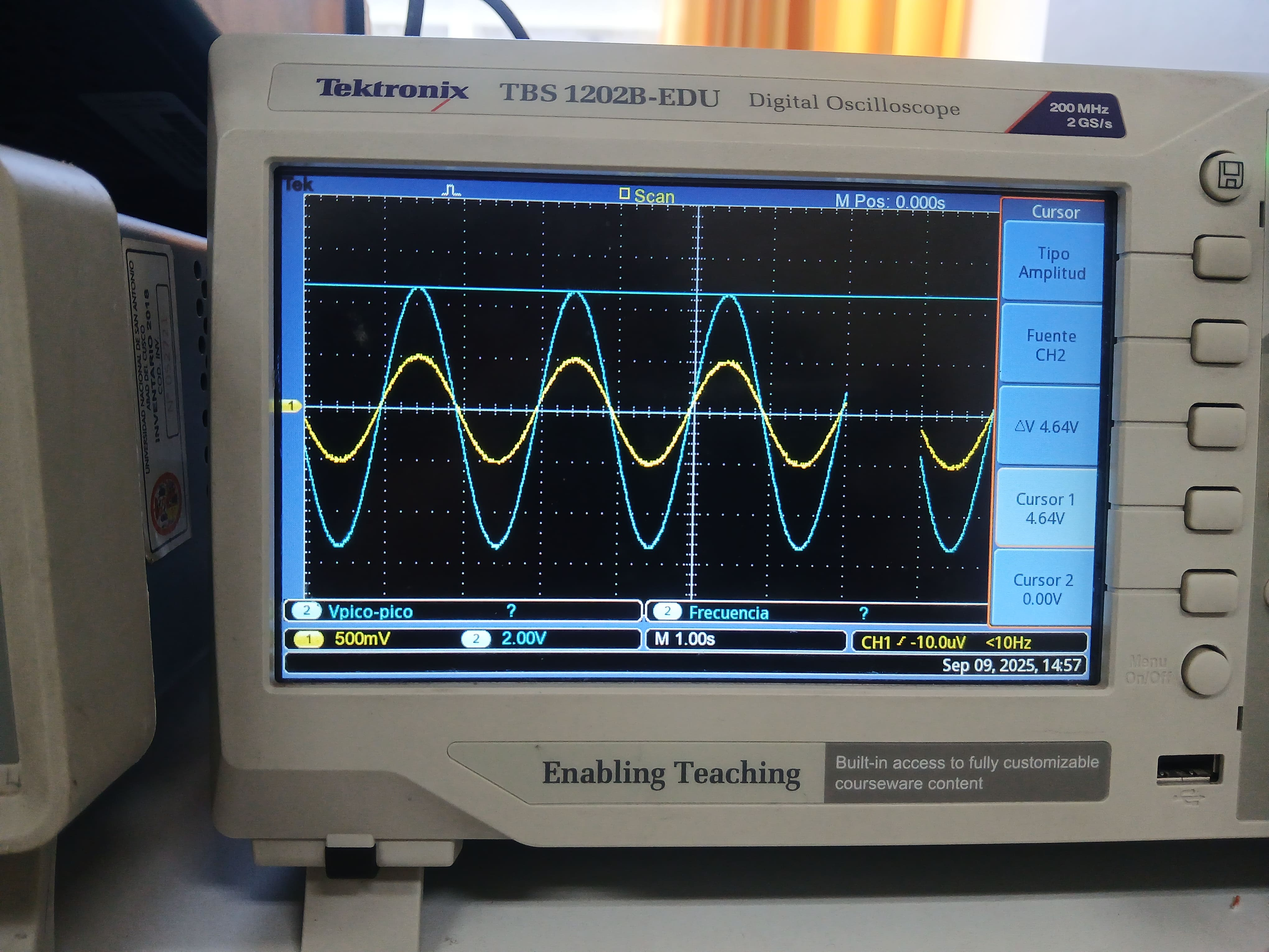
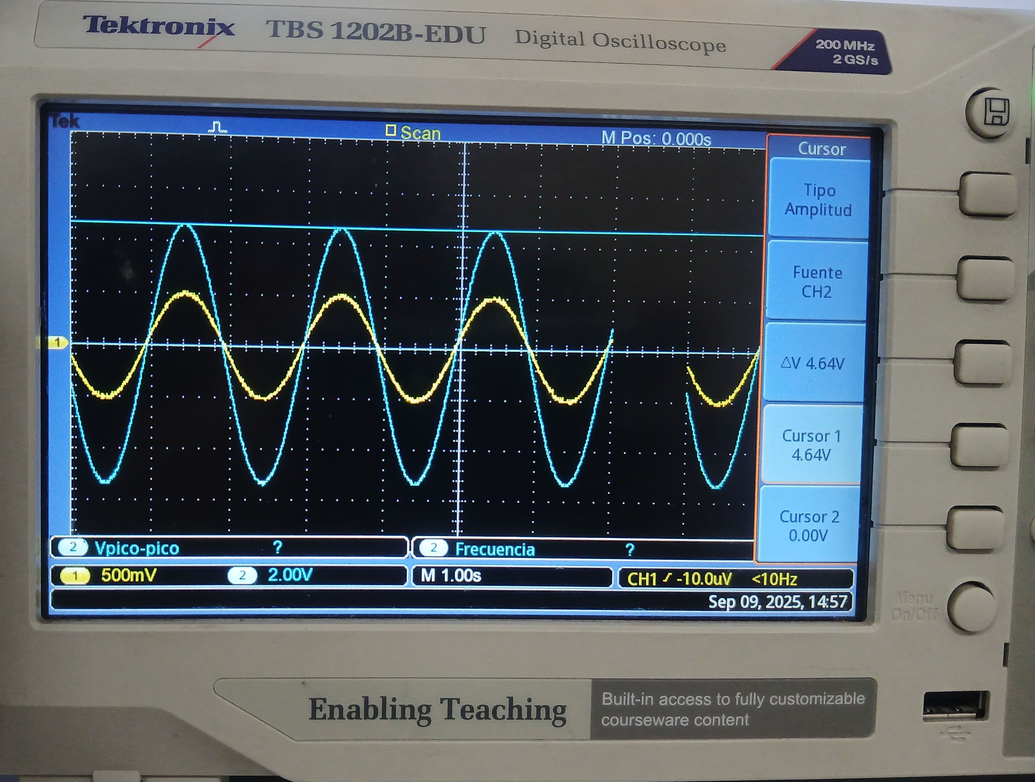
Rescalado de imagenes

diff --git a/3. CMMR OPERACIONAL/INFORME FINAL/1-Introduccion.tex b/3. CMMR OPERACIONAL/INFORME FINAL/1-Introduccion.tex
@@ -163,22 +163,26 @@ Del error se puede decir que este ronda un porcentaje considerable del estimado 
 Una análisis de ganancia para cada modo a primera vista según las figuras \ref{fig:grafica-advsf} y \ref{fig:grafica-acvsf} muestra para el primera caso que la ganancia en modo diferencia disminuye conforme la frecuencia aumenta, ubicando el primer punto de inflexión en una frecuencia de $5000 [Hz]$, siendo que para el segundo caso la ganancia en modo común inicialmente ronda los -29.89 dB e incrementadose conforme la frecuencia aumenta hallándose el primer pico de inflexión para los $5000 Hz$.
 
 \begin{figure}[h]
-	\centering
-	\includegraphics[width=0.5\linewidth]{media/grafica-advsf}
-	\caption{Ganancia diferencias respecto a la frecuencia}
-	\label{fig:grafica-advsf}
-\end{figure}
-
-\begin{figure}[h]
-	\centering
-	\includegraphics[width=0.5\linewidth]{media/grafica-acvsf}
-	\caption{Ganancia modo común respecto a la frecuencia}
-	\label{fig:grafica-acvsf}
+	\begin{subfigure}[b]{0.5\linewidth}
+		\centering
+		\includegraphics[width=\linewidth]{media/grafica-advsf}
+		\caption{Ganancia diferencias respecto a la frecuencia}
+		\label{fig:grafica-advsf}
+	\end{subfigure}
+	\hfill
+	\begin{subfigure}[b]{0.5\linewidth}
+		\centering
+		\includegraphics[width=\linewidth]{media/grafica-acvsf}
+		\caption{Ganancia modo común respecto a la frecuencia}
+		\label{fig:grafica-acvsf}
+	\end{subfigure}	
 \end{figure}
 
 Del análisis previo se puede destacar que el ancho de banda del amplificador operacional se puede ubicar entre los 0 Hz y los 50K Hz siendo el segundo punto en el cual se tiene una disminución en la ganancia significativa para el modo diferencial.
 
 \section{Relación matemáticas para cada expresión}
+
+
 \section*{Resultados finales}
 
 
